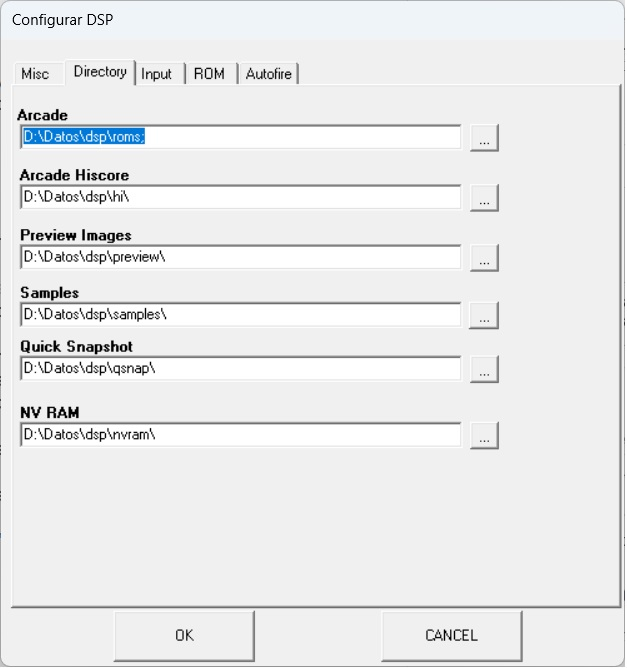
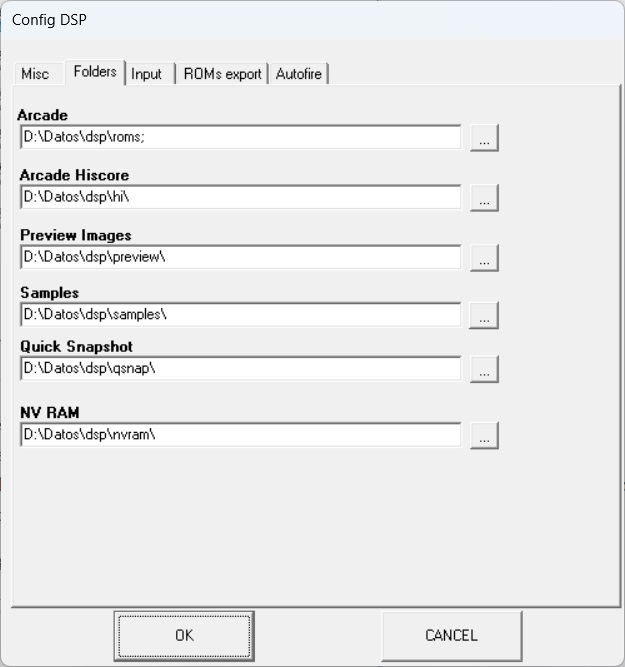
DSP 0.22WIP4.1

diff --git a/DSP small guide/DSP Emulator small guide.md b/DSP small guide/DSP Emulator small guide.md
@@ -24,7 +24,7 @@ The main menu, where you can select the main options:
   - Sound --> Enable/Disable sound
   - Video --> Choose video settings
   - Configuration --> Open main config menu, see section 1.1 for more info
-- Machine --> Change the emulated system directly (not the list menu)
+- Machine --> Change the emulated system directly (not from the list menu)
 - Action
   - Run --> Resume selected system
   - Reset --> Reset selected system
@@ -41,7 +41,7 @@ The buttons are short-cuts to some options:
 
 On the status bar, you can see:
 - FPS --> Frames per second, the quantity of pictures drawn every second
-- Speed --> In percentage, the speed of the emulation. 100% is the perfect speed, below the emulation is slow.
+- Speed --> In percentage, the speed of the emulation. 100% is the perfect speed, below the emulation is slow, above it's too fast.
 
 <b>1.1-. Main Options</b>
 
@@ -52,17 +52,17 @@ In this window you have five pages to configure some options of the emulator. Th
 
 <img src="dsp_config1.jpg" width="50%" height="50%">
 
-All the options here are the same that you can select in the main menu, except the last one:
-- Run the last game at start-up --> If this option is selected, when DSP starts, it will run the last system it was running before it was closed, if not, the emulator will start with the list menu.
+All the options here are the same that you can select in the main menu (see section 1), except the last one:
+- Run the last game at start-up --> If this option is selected, when DSP starts, it will run the last system it was running before it was closed, if not, the emulator will start with the list menu (see section 1.2).
 - Show ROMs errors --> If set, when DSP detects a bad ROM file will show a window with the bad file
 - Center main screen --> When a new system is starting, the main window will go to the center of the screen
-- CONSOLES: Show game loading menu at start-up --> When a console is started and this check it's selected, the 'open game' window it's show, otherwise, you need to press the button 'open game' on the right menu (no game select window will be opened).
+- CONSOLES: Show game loading menu at start-up --> When a console is started and this check it's selected, the 'open game' window it's show, otherwise, you need to press the button 'open game' on the right menu (no game select window will be opened at start-up).
 
-**1.1.2 Directory**
+**1.1.2 Folders**
 
 <img src="dsp_config2.jpg" width="50%" height="50%">
 
-Here you can select the folder where the need files or the output files will reside.<br>
+Here you can select the folders where the need files or the output files will reside.<br>
 Press the button with three dots '...' and select a new folder.<br>
 On the Arcade option, you can add extra folders, splitted by semicolons, for example 'c:\folder1;d:\roms\folder2'
 
@@ -80,7 +80,7 @@ There is another option with the joystick, 'calibrate'. If your directional cont
 
 <img src="dsp_config_joy.jpg" width="25%" height="25%">
 
-**1.1.4 ROM**
+**1.1.4 ROMs export**
 
 <img src="dsp_config4.jpg" width="50%" height="50%">
 
@@ -141,7 +141,7 @@ There are six models emulated, all support tape and one have disk drive (section
 
 <img src="dsp_spectrum.jpg" width="50%" height="50%">
 
-The spectrum have a special tape menu, which have a preview of the tape/snapshot.
+The spectrum have a special tape/snapshot menu, which have a preview of the game and some info.
 
 <img src="dsp_spectrum_tape.jpg" width="50%" height="50%">
 
@@ -183,7 +183,7 @@ You can select:
 - LensLok --> Enable/disable virtual window for LensLok copy-protection
 - Monitor Options
 	+ Select Color/Green monitor
-	+ Select brightness
+	+ Select brightness (green monitor only)
 - ROMs slots --> add more ROMs into slots 1 to 6
 
 **2.3-. Tape window**
@@ -286,4 +286,4 @@ There are no options, just press 'start P1' for Game-A or 'start-P2' for Game-B.
 
 If you have any question or suggestion, please contact me at leniad2[@]hotmail.com!
 
-v1.0.1
+v1.0.2
